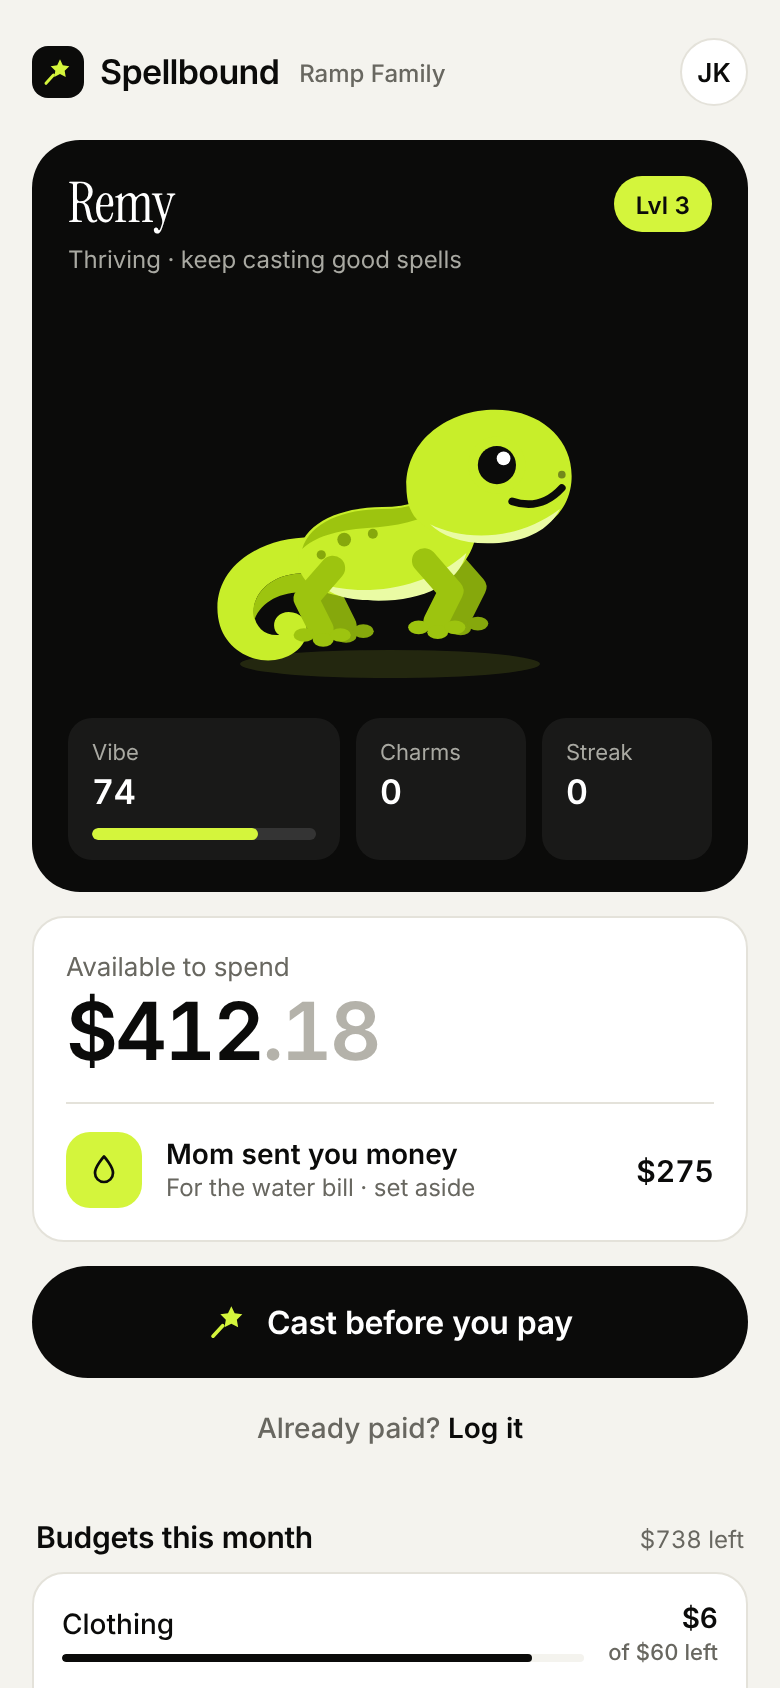
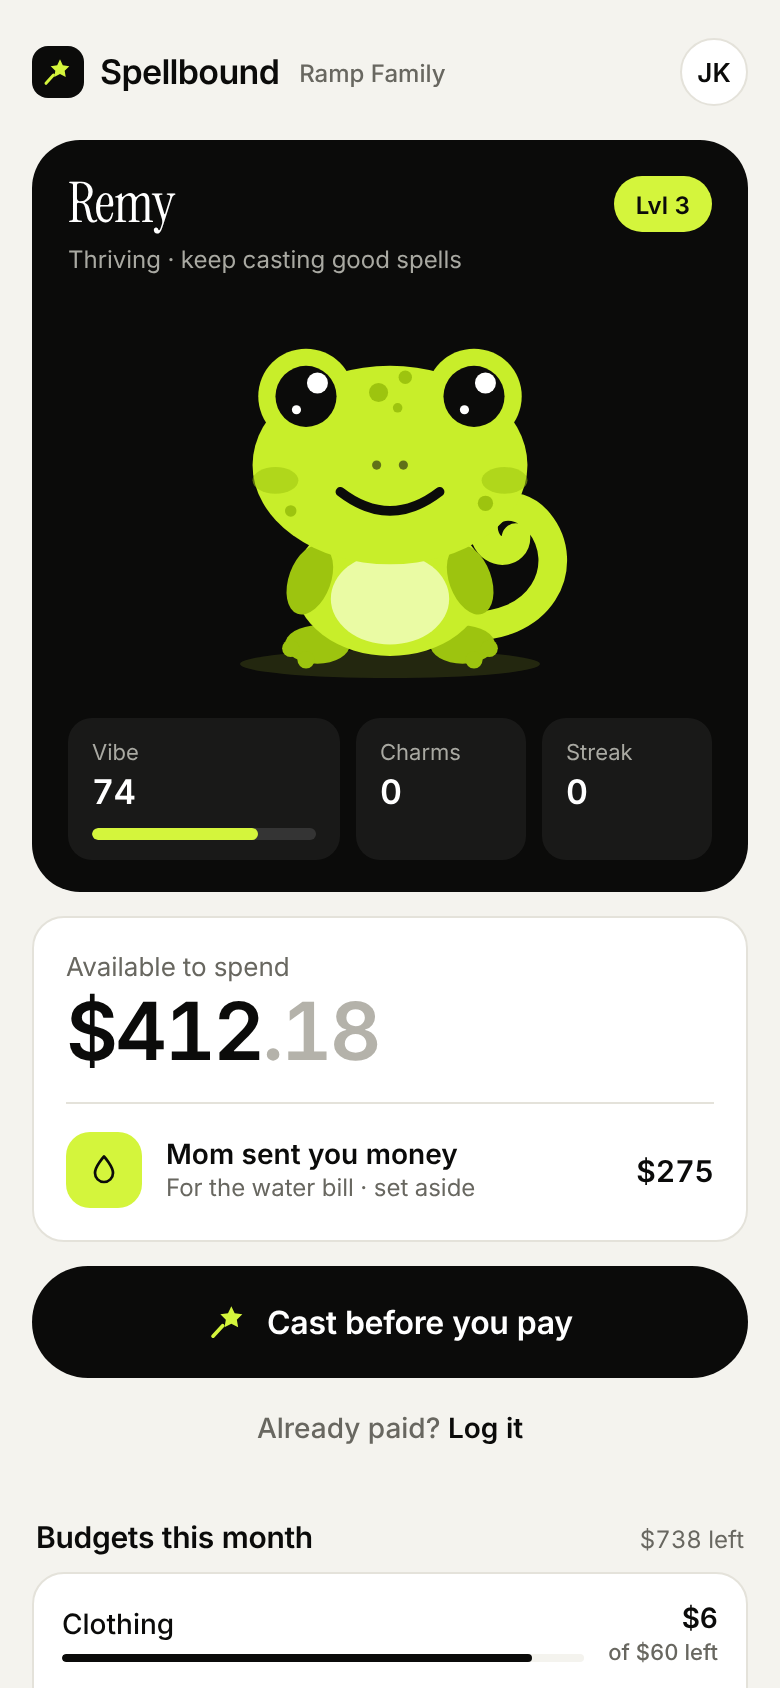
Spellbound: bring back the previous Remy
Reverts the side-on redraw and its Figma link update; the app, mockups and
Figma guide are back to the design-review version.

Claude-Session: https://claude.ai/code/session_01PqrfActJswGG3E9NfEGjAG

Changed region(s): [[0.2769, 0.1848, 0.7385, 0.4005]]

diff --git a/spellbound/index.html b/spellbound/index.html
@@ -27,7 +27,6 @@
   --gk: #C8EE2A;
   --gk-dark: #9DC40F;
   --gk-belly: #EAFBA4;
-  --gk-deep: #86A80C;
   --r: 16px;
   --sat: env(safe-area-inset-top, 0px);
   --sab: env(safe-area-inset-bottom, 0px);
@@ -76,16 +75,23 @@ input { font: inherit; }
 .bar { height: 6px; border-radius: 99px; background: rgba(255,255,255,0.12); margin-top: 8px; overflow: hidden; }
 .bar > i { display: block; height: 100%; width: 50%; background: var(--lime); border-radius: 99px; transition: width .6s cubic-bezier(.2,.8,.2,1); }
 
-/* gecko moods: poses are drawn by geckoParts(); CSS only adds motion */
+/* gecko moods */
+.gecko .part { transition: opacity .2s; }
+.gecko [data-show] { opacity: 0; }
+.gecko[data-mood="happy"] [data-show~="happy"],
+.gecko[data-mood="joy"] [data-show~="joy"],
+.gecko[data-mood="meh"] [data-show~="meh"],
+.gecko[data-mood="sad"] [data-show~="sad"],
+.gecko[data-mood="cry"] [data-show~="cry"] { opacity: 1; }
 .gecko .bodyg { transform-origin: 110px 200px; }
 .gecko[data-mood="happy"] .bodyg { animation: breathe 3.2s ease-in-out infinite; }
 .gecko[data-mood="joy"] .bodyg { animation: hop .55s cubic-bezier(.3,.7,.4,1) 3; }
 .gecko[data-mood="meh"] .bodyg { animation: sway 3s ease-in-out infinite; }
 .gecko[data-mood="sad"] .bodyg, .gecko[data-mood="cry"] .bodyg { animation: droop 1.4s ease-out forwards; }
 .gecko[data-mood="cry"] .bodyg { animation: droop 1.4s ease-out forwards, shiver .12s linear 6; }
-.gecko .tail { transform-origin: 74px 150px; animation: wag 2.4s ease-in-out infinite; }
+.gecko .tail { transform-origin: 150px 176px; animation: wag 2.4s ease-in-out infinite; }
 .gecko[data-mood="joy"] .tail { animation-duration: .45s; }
-.gecko[data-mood="sad"] .tail, .gecko[data-mood="cry"] .tail { animation: none; }
+.gecko[data-mood="sad"] .tail, .gecko[data-mood="cry"] .tail { animation: none; transform: rotate(14deg); }
 .gecko .blink { transform-origin: center; transform-box: fill-box; animation: blink 4.6s infinite; }
 .gecko .tear { animation: tear 1.3s ease-in infinite; }
 @keyframes breathe { 0%,100% { transform: scale(1,1); } 50% { transform: scale(1.02,.98); } }
@@ -399,67 +405,60 @@ input { font: inherit; }
 'use strict';
 
 /* ---------- gecko ---------- */
-/* ---------- Remy ---------- */
-// Remy, side-on, in flat planes of one colour (base, shade, deep shade, light belly) with no outlines.
-// Poses are baked into transform attributes so they survive SVG export; CSS only animates outer groups.
-function geckoParts(m) {
-  const sad = m === 'sad' || m === 'cry', joy = m === 'joy';
-  const rig = joy ? 'translate(6 -26) rotate(-24 110 140)' : sad ? 'translate(0 8)' : '';
-  const head = joy ? 'rotate(-6 136 118)' : sad ? 'rotate(18 136 118)' : m === 'meh' ? 'translate(-3 9) rotate(5 136 118)' : 'translate(-3 9)';
-  const tail = joy ? 'rotate(26 70 148)' : sad ? 'rotate(-26 70 148)' : '';
-  const legs = joy ? { fb: 'rotate(58 82 150)', ff: 'rotate(-62 130 148)' } : sad ? { fb: 'rotate(-6 82 150)', ff: 'rotate(8 130 148)' } : { fb: '', ff: '' };
-  // a bent gecko leg with three splayed toes; dir 1 = elbow forward, -1 = knee back
-  const leg = (x, y, dir, col) => {
-    const ex = x + 14 * dir, fx = x + 6 * dir;
-    return `<path d="M${x} ${y} L${ex} ${y + 16} L${fx} ${y + 32}" fill="none" stroke="var(${col})" stroke-width="13" stroke-linecap="round" stroke-linejoin="round"/>
-      <g fill="var(${col})"><ellipse cx="${fx - 9}" cy="${y + 35}" rx="5.5" ry="3.6"/><ellipse cx="${fx + 1}" cy="${y + 37.5}" rx="5.5" ry="3.6"/><ellipse cx="${fx + 10}" cy="${y + 35}" rx="5.5" ry="3.6"/></g>`;
-  };
-  const eye = joy
-    ? `<path d="M160 90 Q169 79 178 90" fill="none" stroke="#0B0B0A" stroke-width="5" stroke-linecap="round"/>`
-    : `<g class="blink"><circle cx="169" cy="89" r="10" fill="#0B0B0A"/><circle cx="172.5" cy="85.5" r="3.6" fill="#fff"/></g>`
-      + (m === 'meh' ? `<path d="M157 89 A12 12 0 0 1 181 89 Z" fill="var(--gk)"/><path d="M157.5 89 H180.5" stroke="#0B0B0A" stroke-width="4" stroke-linecap="round"/>` : '')
-      + (sad ? `<path d="M156 72 Q166 73 178 67" fill="none" stroke="#0B0B0A" stroke-width="4" stroke-linecap="round"/>` : '');
-  const mouth = joy
-    ? `<path d="M174 106 Q192 114 204 100 Q198 124 178 114 Z" fill="#0B0B0A"/><path d="M183 114 Q192 113 197 108 Q194 118 186 117 Z" fill="#F2A7A0"/>`
-    : m === 'happy' ? `<path d="M177 108 Q192 113 203 101" fill="none" stroke="#0B0B0A" stroke-width="4" stroke-linecap="round"/>`
-    : m === 'meh' ? `<path d="M180 109 L202 106" fill="none" stroke="#0B0B0A" stroke-width="4" stroke-linecap="round"/>`
-    : `<path d="M180 113 Q192 103 203 109" fill="none" stroke="#0B0B0A" stroke-width="4" stroke-linecap="round"/>`;
-  const tear = m === 'cry' ? `<path class="tear" d="M165 104 C165 104 159 113 159 117 A6 6 0 0 0 171 117 C171 113 165 104 165 104 Z" fill="#9FD8F2"/>` : '';
-  let trail = '';
-  if (joy) {
-    // three flat bands along the leap, fading out behind
-    const d = [-1, 0], n = [0, 1], c = [96, 145], L = 150, w = 12;
-    const cols = ['#FFFFFF', 'var(--gk-dark)', '#0B0B0A'];
-    trail = cols.map((col, i) => {
-      const k = (i - 1) * w, p = (a, b) => `${(c[0] + n[0] * (k + a) + d[0] * b).toFixed(1)} ${(c[1] + n[1] * (k + a) + d[1] * b).toFixed(1)}`;
-      return `<linearGradient id="tr${i}" gradientUnits="userSpaceOnUse" x1="${c[0]}" y1="${c[1]}" x2="${(c[0] + d[0] * L).toFixed(0)}" y2="${(c[1] + d[1] * L).toFixed(0)}"><stop offset="0" stop-color="${col}" stop-opacity="${i === 2 ? .8 : 1}"/><stop offset="1" stop-color="${col}" stop-opacity="0"/></linearGradient>
-        <path d="M${p(-w / 2, 0)} L${p(w / 2, 0)} L${p(w / 2, L)} L${p(-w / 2, L)} Z" fill="url(#tr${i})"/>`;
-    }).join('');
-  }
-  return `
-  <g class="bodyg"><g transform="${rig}">${trail}
-    <g transform="${tail}"><g class="tail">
-      <path d="M74 136 C42 134 16 152 20 178 C23 198 46 206 60 196 C70 189 68 175 57 175 C49 175 47 184 52 187 C41 188 36 177 40 168 C47 154 66 152 80 158 Z" fill="var(--gk)"/>
-      <path d="M80 158 C66 152 47 154 40 168 C38 172 38 176 39 179 C44 166 60 162 78 166 Z" fill="var(--gk-dark)"/>
-    </g></g>
-    <g transform="${legs.fb}">${leg(92, 150, -1, '--gk-deep')}</g>
-    <g transform="${legs.ff}">${leg(140, 146, 1, '--gk-deep')}</g>
-    <path d="M62 150 C60 130 82 120 106 120 C120 120 130 116 138 110 L156 126 C156 152 134 168 104 168 C80 168 64 164 62 150 Z" fill="var(--gk)"/>
-    <path d="M64 142 C68 128 86 121 106 121 C120 121 130 117 138 111 L144 116 C132 126 116 130 98 131 C82 132 70 136 64 142 Z" fill="var(--gk-dark)"/>
-    <path d="M74 160 C94 167 128 164 150 144 C146 160 128 169 104 169 C88 169 78 166 74 160 Z" fill="var(--gk-belly)"/>
-    <circle cx="86" cy="137" r="3.6" fill="var(--gk-deep)"/><circle cx="101" cy="134" r="2.6" fill="var(--gk-deep)"/><circle cx="74" cy="145" r="2.4" fill="var(--gk-deep)"/>
-    <g transform="${legs.fb}">${leg(80, 152, -1, '--gk-dark')}</g>
-    <g transform="${legs.ff}">${leg(128, 148, 1, '--gk-dark')}</g>
-    <g transform="${head}">
-      <path d="M122 106 C118 78 142 60 168 60 C192 60 210 76 208 98 C206 118 188 128 164 128 C140 128 124 122 122 106 Z" fill="var(--gk)"/>
-      <path d="M134 120 C150 128 178 130 202 112 C196 124 182 130 164 130 C150 130 140 126 134 120 Z" fill="var(--gk-belly)"/>
-      <circle cx="169" cy="89" r="15" fill="var(--gk)"/>
-      ${eye}${mouth}${tear}
-      <circle cx="203" cy="94" r="2" fill="#0B0B0A" opacity=".45"/>
+const GECKO = `
+<svg class="gecko" viewBox="0 0 220 220" data-mood="happy" aria-hidden="true">
+  <g class="bodyg">
+    <path class="tail" d="M146 182 C190 186 206 150 188 128 C176 113 154 120 160 136 C164 146 176 144 176 136" fill="none" stroke="var(--gk)" stroke-width="15" stroke-linecap="round"/>
+    <ellipse cx="72" cy="192" rx="17" ry="10" fill="var(--gk-dark)"/>
+    <ellipse cx="148" cy="192" rx="17" ry="10" fill="var(--gk-dark)"/>
+    <circle cx="58" cy="194" r="4.5" fill="var(--gk-dark)"/><circle cx="66" cy="200" r="4.5" fill="var(--gk-dark)"/>
+    <circle cx="162" cy="194" r="4.5" fill="var(--gk-dark)"/><circle cx="154" cy="200" r="4.5" fill="var(--gk-dark)"/>
+    <ellipse cx="110" cy="160" rx="50" ry="38" fill="var(--gk)"/>
+    <ellipse cx="110" cy="168" rx="31" ry="24" fill="var(--gk-belly)"/>
+    <ellipse cx="68" cy="158" rx="11" ry="19" transform="rotate(20 68 158)" fill="var(--gk-dark)"/>
+    <ellipse cx="152" cy="158" rx="11" ry="19" transform="rotate(-20 152 158)" fill="var(--gk-dark)"/>
+    <circle cx="66" cy="62" r="25" fill="var(--gk)"/>
+    <circle cx="154" cy="62" r="25" fill="var(--gk)"/>
+    <ellipse cx="110" cy="98" rx="72" ry="52" fill="var(--gk)"/>
+    <circle cx="104" cy="60" r="5" fill="var(--gk-dark)"/><circle cx="118" cy="52" r="3.5" fill="var(--gk-dark)"/><circle cx="114" cy="68" r="2.5" fill="var(--gk-dark)"/>
+    <circle cx="160" cy="118" r="4" fill="var(--gk-dark)"/><circle cx="58" cy="122" r="3" fill="var(--gk-dark)"/>
+    <circle cx="103" cy="98" r="2.4" fill="#0B0B0A" opacity=".55"/><circle cx="117" cy="98" r="2.4" fill="#0B0B0A" opacity=".55"/>
+    <ellipse cx="50" cy="106" rx="12" ry="7" fill="var(--gk-dark)" opacity=".55"/>
+    <ellipse cx="170" cy="106" rx="12" ry="7" fill="var(--gk-dark)" opacity=".55"/>
+
+    <!-- open eyes -->
+    <g class="part" data-show="happy meh sad cry">
+      <g class="blink"><circle cx="66" cy="62" r="16" fill="#0B0B0A"/><circle cx="72" cy="55" r="5.5" fill="#fff"/><circle cx="61" cy="69" r="2.4" fill="#fff"/></g>
+      <g class="blink"><circle cx="154" cy="62" r="16" fill="#0B0B0A"/><circle cx="160" cy="55" r="5.5" fill="#fff"/><circle cx="149" cy="69" r="2.4" fill="#fff"/></g>
     </g>
-  </g></g>`;
-}
-const GECKO = `<svg class="gecko" viewBox="0 0 220 220" data-mood="" aria-hidden="true"></svg>`;
+    <!-- joy eyes ^ ^ -->
+    <g class="part" data-show="joy" fill="none" stroke="#0B0B0A" stroke-width="6" stroke-linecap="round">
+      <path d="M52 68 Q66 48 80 68"/><path d="M140 68 Q154 48 168 68"/>
+    </g>
+    <!-- half lids for meh -->
+    <g class="part" data-show="meh">
+      <path d="M48 62 A18 18 0 0 1 84 62 Z" fill="var(--gk)"/><path d="M136 62 A18 18 0 0 1 172 62 Z" fill="var(--gk)"/>
+      <path d="M48 62 H84 M136 62 H172" stroke="#0B0B0A" stroke-width="4" stroke-linecap="round"/>
+    </g>
+    <!-- worried brows -->
+    <g class="part" data-show="sad cry" fill="none" stroke="#0B0B0A" stroke-width="5" stroke-linecap="round">
+      <path d="M50 46 Q64 42 82 34"/><path d="M170 46 Q156 42 138 34"/>
+    </g>
+    <!-- mouths -->
+    <path class="part" data-show="happy" d="M84 112 Q110 132 136 112" fill="none" stroke="#0B0B0A" stroke-width="5" stroke-linecap="round"/>
+    <g class="part" data-show="joy">
+      <path d="M80 108 Q110 150 140 108 Z" fill="#0B0B0A" stroke="#0B0B0A" stroke-width="4" stroke-linejoin="round"/>
+      <path d="M98 128 Q110 118 122 128 Q118 138 110 138 Q102 138 98 128 Z" fill="#F2A7A0"/>
+    </g>
+    <path class="part" data-show="meh" d="M92 120 Q104 116 128 122" fill="none" stroke="#0B0B0A" stroke-width="5" stroke-linecap="round"/>
+    <path class="part" data-show="sad cry" d="M86 128 Q110 106 134 128" fill="none" stroke="#0B0B0A" stroke-width="5" stroke-linecap="round"/>
+    <!-- tears -->
+    <g class="part" data-show="cry">
+      <path class="tear" d="M56 82 C56 82 49 92 49 96 A7 7 0 0 0 63 96 C63 92 56 82 56 82 Z" fill="#9FD8F2"/>
+      <path class="tear" style="animation-delay:.6s" d="M164 82 C164 82 157 92 157 96 A7 7 0 0 0 171 96 C171 92 164 82 164 82 Z" fill="#9FD8F2"/>
+    </g>
+  </g>
+</svg>`;
 
 const petSlot = document.getElementById('petSlot');
 petSlot.innerHTML = GECKO;
@@ -780,9 +779,8 @@ function geckoColour(v) {
   root.setProperty('--gk', mix([200, 238, 42], [158, 168, 118], t));
   root.setProperty('--gk-dark', mix([157, 196, 15], [120, 128, 92], t));
   root.setProperty('--gk-belly', mix([234, 251, 164], [206, 210, 186], t));
-  root.setProperty('--gk-deep', mix([134, 168, 12], [104, 111, 80], t));
 }
-function setMood(el, m) { el.innerHTML = geckoParts(m); el.dataset.mood = ''; void el.getBoundingClientRect(); el.dataset.mood = m; }
+function setMood(el, m) { el.dataset.mood = ''; void el.getBoundingClientRect(); el.dataset.mood = m; }
 
 let showAllBudgets = false;
 function render() {
@@ -978,7 +976,7 @@ function verdict(p, m) {
     <div class="v-top"><span>${before ? 'Before you pay' : 'Just paid'}</span><span><svg width="13" height="13" viewBox="0 0 24 24" fill="none"><path d="M14 2.5l2 4.2 4.6.7-3.3 3.2.8 4.6-4.1-2.2-4.1 2.2.8-4.6L7.4 7.4l4.6-.7z" fill="currentColor"/><path d="M8.8 14.2L3 20.5" stroke="currentColor" stroke-width="2.4" stroke-linecap="round"/></svg>Spellcheck</span></div>
     <div class="v-merchant">${p.item} · ${p.merchant}</div>
     <div class="v-amount">${money(p.amt)}</div>
-    <div class="v-pet" id="vPet" style="${v === 'bad' ? '--gk:#A3AD80;--gk-dark:#7C8460;--gk-deep:#686F50;--gk-belly:#D3D6BF' : ''}">${GECKO}</div>
+    <div class="v-pet" id="vPet" style="${v === 'bad' ? '--gk:#A3AD80;--gk-dark:#7C8460;--gk-belly:#D3D6BF' : ''}">${GECKO}</div>
     <div class="v-head serif"><i>${r.headline}</i></div>
     <div class="v-msg">${r.msg}</div>
     <div class="v-why">

diff --git a/spellbound/FIGMA.md b/spellbound/FIGMA.md
@@ -8,7 +8,7 @@ Three parts, one Figma file:
 3. **Workflow**: the system diagram in FigJam.
 
 Base URL for every link below:
-`https://raw.githack.com/emill-y/WhatsInMyBag/9fb827615f8ba68c6de474b8656a0e2fd71189c3/spellbound/index.html`
+`https://raw.githack.com/emill-y/WhatsInMyBag/67d55a528d7f8cef5e9106c2708a1709df3d3ce6/spellbound/index.html`
 
 ---
 
@@ -81,7 +81,7 @@ Build a mobile app prototype (iPhone, 390×844) called "Spellbound", a Ramp Fami
 
 STYLE: minimal fintech, in the style of Ramp. Off-white background #F4F3EE, white cards #FFFFFF with 1px hairlines #E4E2DA and 16px radius, near-black #0B0B0A text and primary buttons, ONE accent colour: lime #D4F53C. Inter for all UI (big numbers 600 weight, tight tracking, tabular figures); Instrument Serif Italic only for the verdict headline. Pill buttons 56px tall. Flat fills, no shadows, no gradients. Lots of white space. Whimsical but restrained.
 
-MASCOT: "Remy", a gecko drawn like Asana's celebration creatures: seen side-on facing right, one clean silhouette with NO outlines, built from flat planes of a single lime: base #C8EE2A, shade #9DC40F (the back and the near legs), deep shade #86A80C (the far legs, spots), light #EAFBA4 (belly and jaw). Big rounded head on a short rising neck, a long body, a tail that curls into a spiral, bent legs with three soft splayed toes, a few small spots on the back. The face is tiny and simple: one round black eye with a white glint, a single-line mouth. Moods: happy (standing, gentle smile), joy (leaping up and to the right, legs stretched, ^-shaped closed eye, open grin, with a three-band motion streak behind him in white, shade lime and ink that fades out — like the Asana trails), meh (standing, head tipped down slightly, half-closed eye, flat mouth), sad (head dropped, tail lowered, worried brow above the eye, frown, colours fade to dusty olive #A3AD80 / #7C8460 / #D3D6BF), cry (sad + one blue tear).
+MASCOT: "Remy", a cute, round, flat-vector gecko: lime body #C8EE2A, darker lime spots and limbs #9DC40F, pale belly #EAFBA4, big black glossy eyes on top of the head, curled tail. Five moods: happy (smile), joy (^ ^ eyes, open grin, hopping), meh (half-closed eyes, flat mouth), sad (worried brows, frown, colour fades to dusty olive #A3AD80), cry (sad + blue tears).
 
 SCREENS:
 1. Home: header "Spellbound" with a small star-wand logo and "Ramp Family". Black rounded card (24px radius) with Remy in the middle, name "Remy" in serif, "Lvl 3" lime pill, and three stats: Vibe 74 (lime progress bar), Charms 0, Streak 0. Below: white card "Available to spend $412.18" (cents in grey) and a row "Mom sent you money · For the water bill · set aside · $275" with a lime water-drop icon. One full-width black button "Cast before you pay" with a lime wand icon, and under it a quiet text link "Already paid? Log it". Budgets show the 4 most at-risk categories plus "Show all 9"; rows use thin line icons per category, not letters. Then "Budgets this month" rows (Groceries $188 of $400 left, Bills, Transport, Eating out, Delivery, Coffee & treats, Clothing, Fun) with thin progress bars, and "Recent spells" rows with a coloured dot for good/meh/bad.
